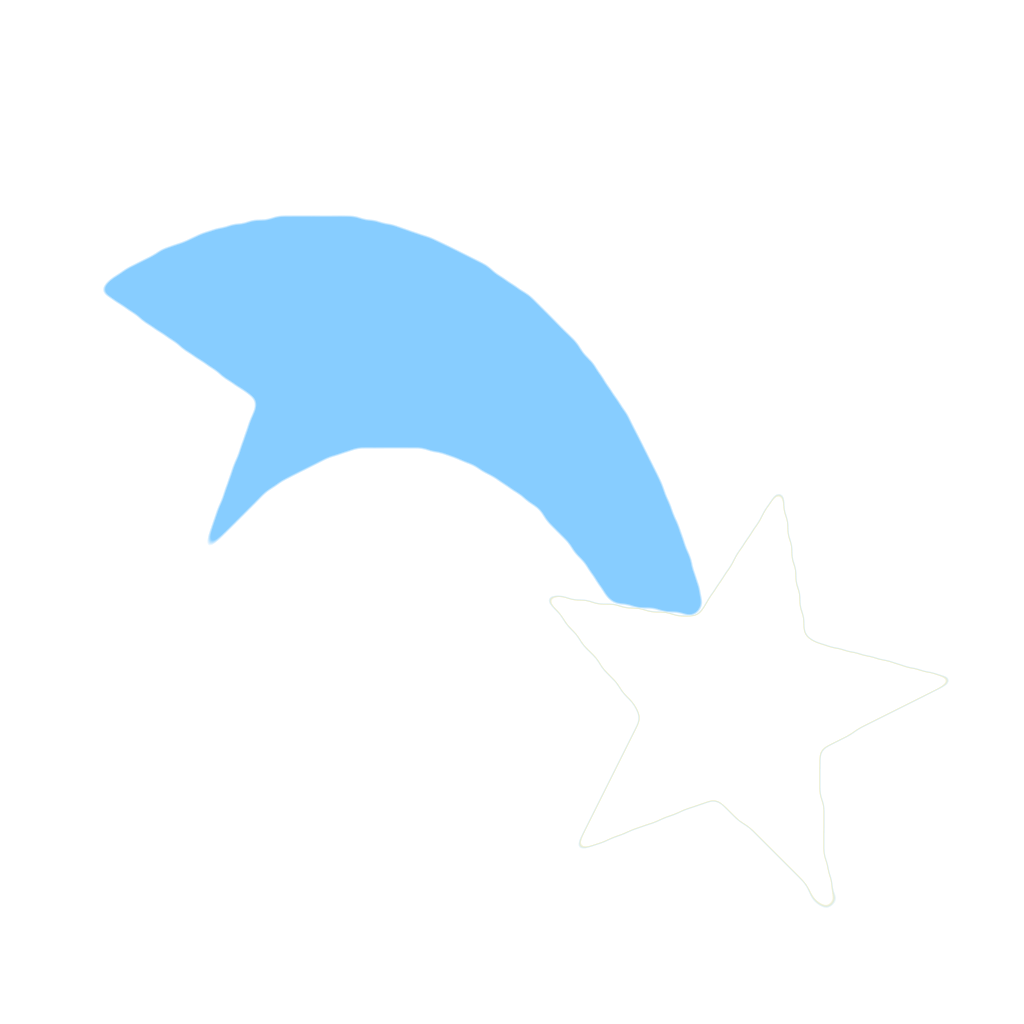
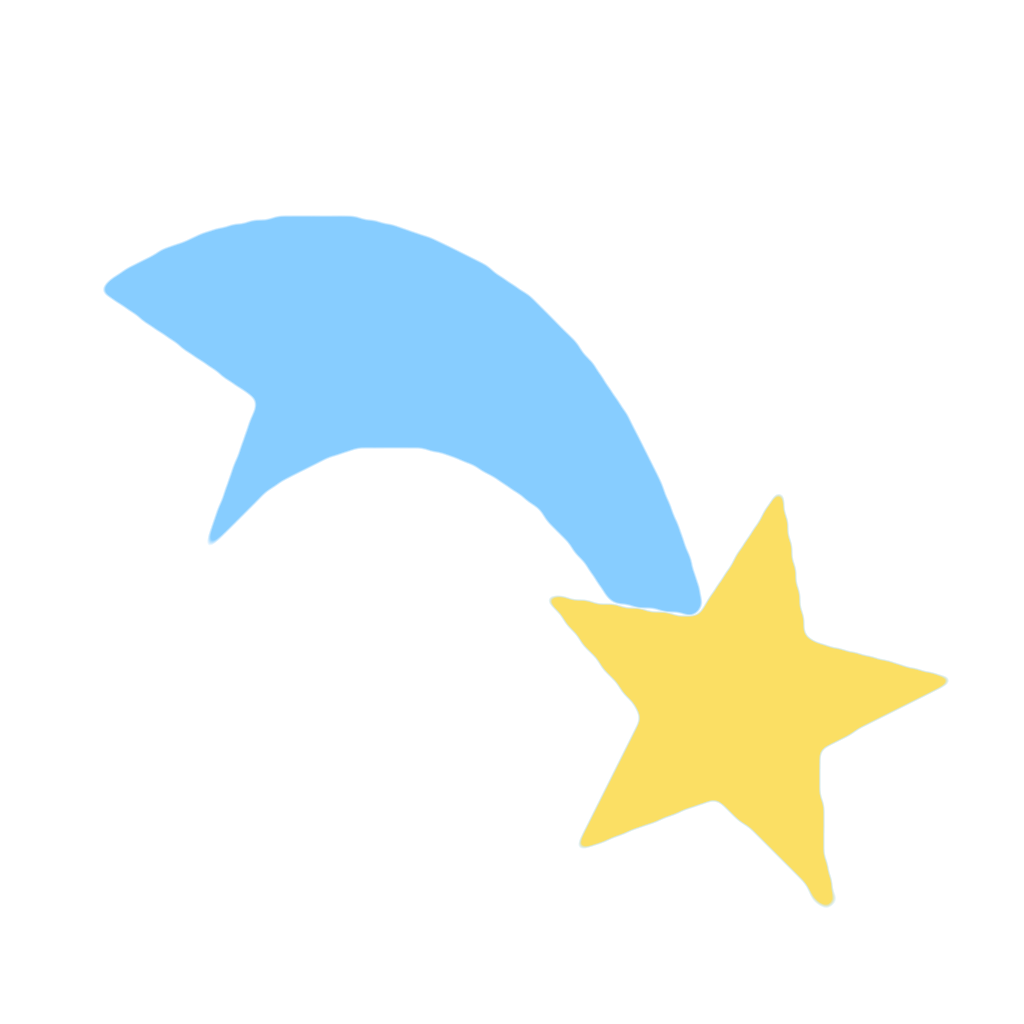
Comet star yellow again; the small star below it white
Claude-Session: https://claude.ai/code/session_01Mf6eJojJJ2cEaRDx8Ddbxj

Changed region(s): [[0.5312, 0.4688, 0.9375, 0.9062]]

diff --git a/index.html b/index.html
@@ -116,7 +116,7 @@
 
 <div class="hero" id="top">
   <!-- the comet of the logo as a layout element -->
-  <svg class="stars" viewBox="0 0 1200 760" preserveAspectRatio="xMidYMid slice" aria-hidden="true"><polygon points="120.0,134.0 124.2,144.2 135.2,145.1 126.8,152.2 129.4,162.9 120.0,157.2 110.6,162.9 113.2,152.2 104.8,145.1 115.8,144.2" fill="#ffd95a" opacity="1"/><polygon points="900.0,77.0 903.4,85.3 912.4,86.0 905.6,91.8 907.6,100.5 900.0,95.8 892.4,100.5 894.4,91.8 887.6,86.0 896.6,85.3" fill="#fff" opacity="1"/><polygon points="1010.0,405.0 1014.0,414.5 1024.3,415.4 1016.4,422.1 1018.8,432.1 1010.0,426.8 1001.2,432.1 1003.6,422.1 995.7,415.4 1006.0,414.5" fill="#ffd95a" opacity="1"/><polygon points="60.0,608.0 63.2,615.6 71.4,616.3 65.1,621.7 67.1,629.7 60.0,625.4 52.9,629.7 54.9,621.7 48.6,616.3 56.8,615.6" fill="#fff" opacity="1"/><polygon points="560.0,29.0 562.9,36.0 570.5,36.6 564.7,41.5 566.5,48.9 560.0,45.0 553.5,48.9 555.3,41.5 549.5,36.6 557.1,36.0" fill="#ffd95a" opacity="1"/><polygon points="250.0,57.0 250.6,59.4 253.0,60.0 250.6,60.6 250.0,63.0 249.4,60.6 247.0,60.0 249.4,59.4" fill="#fff" opacity="0.55"/><polygon points="420.0,126.0 420.8,129.2 424.0,130.0 420.8,130.8 420.0,134.0 419.2,130.8 416.0,130.0 419.2,129.2" fill="#fff" opacity="0.65"/><polygon points="700.0,55.0 701.1,58.9 705.0,60.0 701.1,61.1 700.0,65.0 698.9,61.1 695.0,60.0 698.9,58.9" fill="#fff" opacity="0.75"/><polygon points="800.0,257.0 800.6,259.4 803.0,260.0 800.6,260.6 800.0,263.0 799.4,260.6 797.0,260.0 799.4,259.4" fill="#fff" opacity="0.8500000000000001"/><polygon points="980.0,196.0 980.8,199.2 984.0,200.0 980.8,200.8 980.0,204.0 979.2,200.8 976.0,200.0 979.2,199.2" fill="#fff" opacity="0.55"/><polygon points="1100.0,85.0 1101.1,88.9 1105.0,90.0 1101.1,91.1 1100.0,95.0 1098.9,91.1 1095.0,90.0 1098.9,88.9" fill="#fff" opacity="0.65"/><polygon points="170.0,327.0 170.6,329.4 173.0,330.0 170.6,330.6 170.0,333.0 169.4,330.6 167.0,330.0 169.4,329.4" fill="#fff" opacity="0.75"/><polygon points="330.0,416.0 330.8,419.2 334.0,420.0 330.8,420.8 330.0,424.0 329.2,420.8 326.0,420.0 329.2,419.2" fill="#fff" opacity="0.8500000000000001"/><polygon points="640.0,295.0 641.1,298.9 645.0,300.0 641.1,301.1 640.0,305.0 638.9,301.1 635.0,300.0 638.9,298.9" fill="#fff" opacity="0.55"/><polygon points="1150.0,327.0 1150.6,329.4 1153.0,330.0 1150.6,330.6 1150.0,333.0 1149.4,330.6 1147.0,330.0 1149.4,329.4" fill="#fff" opacity="0.65"/><polygon points="90.0,476.0 90.8,479.2 94.0,480.0 90.8,480.8 90.0,484.0 89.2,480.8 86.0,480.0 89.2,479.2" fill="#fff" opacity="0.75"/><polygon points="470.0,555.0 471.1,558.9 475.0,560.0 471.1,561.1 470.0,565.0 468.9,561.1 465.0,560.0 468.9,558.9" fill="#fff" opacity="0.8500000000000001"/><polygon points="760.0,517.0 760.6,519.4 763.0,520.0 760.6,520.6 760.0,523.0 759.4,520.6 757.0,520.0 759.4,519.4" fill="#fff" opacity="0.55"/><polygon points="1050.0,636.0 1050.8,639.2 1054.0,640.0 1050.8,640.8 1050.0,644.0 1049.2,640.8 1046.0,640.0 1049.2,639.2" fill="#fff" opacity="0.65"/><polygon points="220.0,695.0 221.1,698.9 225.0,700.0 221.1,701.1 220.0,705.0 218.9,701.1 215.0,700.0 218.9,698.9" fill="#fff" opacity="0.75"/></svg>
+  <svg class="stars" viewBox="0 0 1200 760" preserveAspectRatio="xMidYMid slice" aria-hidden="true"><polygon points="120.0,134.0 124.2,144.2 135.2,145.1 126.8,152.2 129.4,162.9 120.0,157.2 110.6,162.9 113.2,152.2 104.8,145.1 115.8,144.2" fill="#ffd95a" opacity="1"/><polygon points="900.0,77.0 903.4,85.3 912.4,86.0 905.6,91.8 907.6,100.5 900.0,95.8 892.4,100.5 894.4,91.8 887.6,86.0 896.6,85.3" fill="#fff" opacity="1"/><polygon points="1010.0,405.0 1014.0,414.5 1024.3,415.4 1016.4,422.1 1018.8,432.1 1010.0,426.8 1001.2,432.1 1003.6,422.1 995.7,415.4 1006.0,414.5" fill="#fff" opacity="1"/><polygon points="60.0,608.0 63.2,615.6 71.4,616.3 65.1,621.7 67.1,629.7 60.0,625.4 52.9,629.7 54.9,621.7 48.6,616.3 56.8,615.6" fill="#fff" opacity="1"/><polygon points="560.0,29.0 562.9,36.0 570.5,36.6 564.7,41.5 566.5,48.9 560.0,45.0 553.5,48.9 555.3,41.5 549.5,36.6 557.1,36.0" fill="#ffd95a" opacity="1"/><polygon points="250.0,57.0 250.6,59.4 253.0,60.0 250.6,60.6 250.0,63.0 249.4,60.6 247.0,60.0 249.4,59.4" fill="#fff" opacity="0.55"/><polygon points="420.0,126.0 420.8,129.2 424.0,130.0 420.8,130.8 420.0,134.0 419.2,130.8 416.0,130.0 419.2,129.2" fill="#fff" opacity="0.65"/><polygon points="700.0,55.0 701.1,58.9 705.0,60.0 701.1,61.1 700.0,65.0 698.9,61.1 695.0,60.0 698.9,58.9" fill="#fff" opacity="0.75"/><polygon points="800.0,257.0 800.6,259.4 803.0,260.0 800.6,260.6 800.0,263.0 799.4,260.6 797.0,260.0 799.4,259.4" fill="#fff" opacity="0.8500000000000001"/><polygon points="980.0,196.0 980.8,199.2 984.0,200.0 980.8,200.8 980.0,204.0 979.2,200.8 976.0,200.0 979.2,199.2" fill="#fff" opacity="0.55"/><polygon points="1100.0,85.0 1101.1,88.9 1105.0,90.0 1101.1,91.1 1100.0,95.0 1098.9,91.1 1095.0,90.0 1098.9,88.9" fill="#fff" opacity="0.65"/><polygon points="170.0,327.0 170.6,329.4 173.0,330.0 170.6,330.6 170.0,333.0 169.4,330.6 167.0,330.0 169.4,329.4" fill="#fff" opacity="0.75"/><polygon points="330.0,416.0 330.8,419.2 334.0,420.0 330.8,420.8 330.0,424.0 329.2,420.8 326.0,420.0 329.2,419.2" fill="#fff" opacity="0.8500000000000001"/><polygon points="640.0,295.0 641.1,298.9 645.0,300.0 641.1,301.1 640.0,305.0 638.9,301.1 635.0,300.0 638.9,298.9" fill="#fff" opacity="0.55"/><polygon points="1150.0,327.0 1150.6,329.4 1153.0,330.0 1150.6,330.6 1150.0,333.0 1149.4,330.6 1147.0,330.0 1149.4,329.4" fill="#fff" opacity="0.65"/><polygon points="90.0,476.0 90.8,479.2 94.0,480.0 90.8,480.8 90.0,484.0 89.2,480.8 86.0,480.0 89.2,479.2" fill="#fff" opacity="0.75"/><polygon points="470.0,555.0 471.1,558.9 475.0,560.0 471.1,561.1 470.0,565.0 468.9,561.1 465.0,560.0 468.9,558.9" fill="#fff" opacity="0.8500000000000001"/><polygon points="760.0,517.0 760.6,519.4 763.0,520.0 760.6,520.6 760.0,523.0 759.4,520.6 757.0,520.0 759.4,519.4" fill="#fff" opacity="0.55"/><polygon points="1050.0,636.0 1050.8,639.2 1054.0,640.0 1050.8,640.8 1050.0,644.0 1049.2,640.8 1046.0,640.0 1049.2,639.2" fill="#fff" opacity="0.65"/><polygon points="220.0,695.0 221.1,698.9 225.0,700.0 221.1,701.1 220.0,705.0 218.9,701.1 215.0,700.0 218.9,698.9" fill="#fff" opacity="0.75"/></svg>
   <img class="comet" src="img/comet.png" alt="">
   <div class="wrap">
     <div class="grid">
